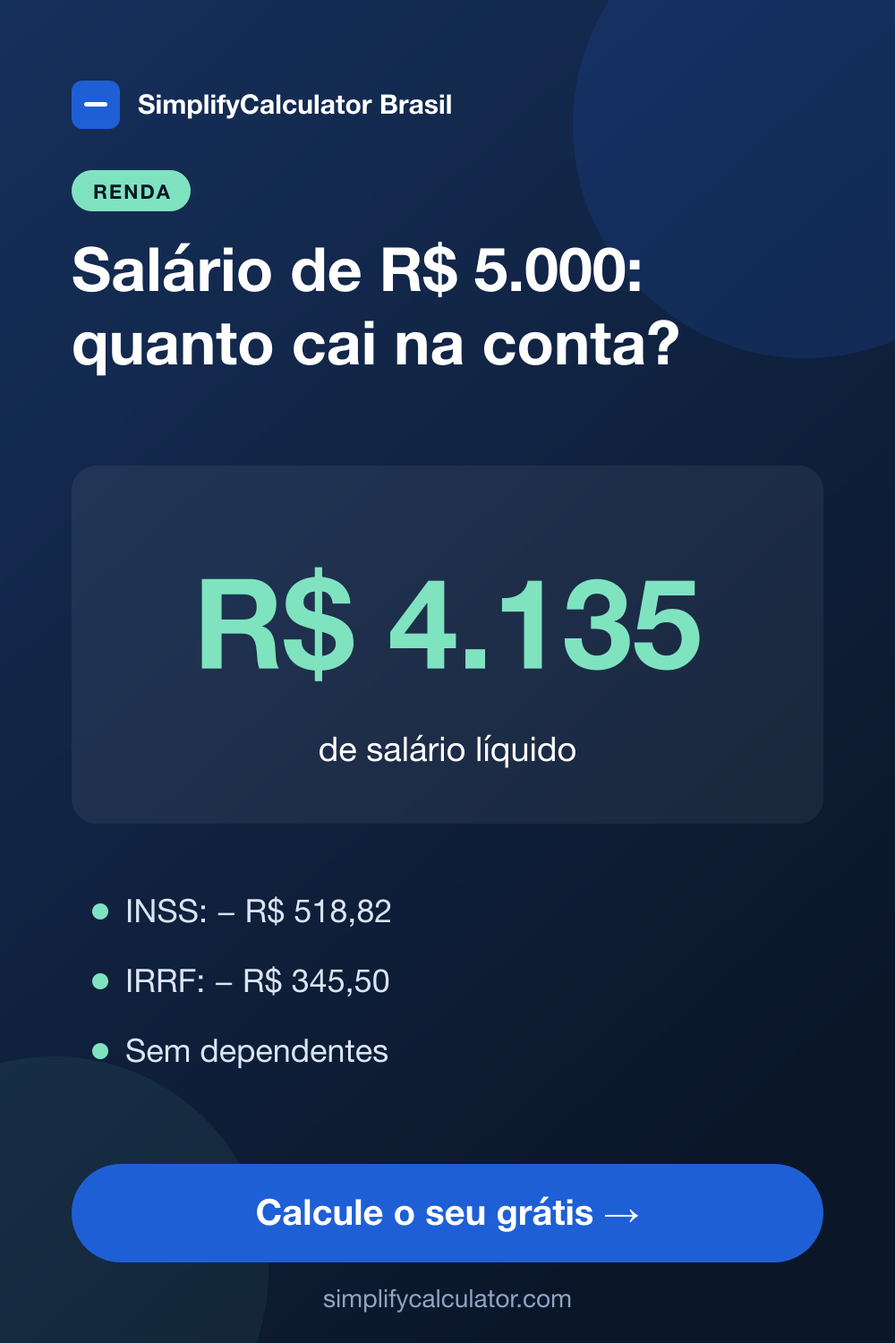
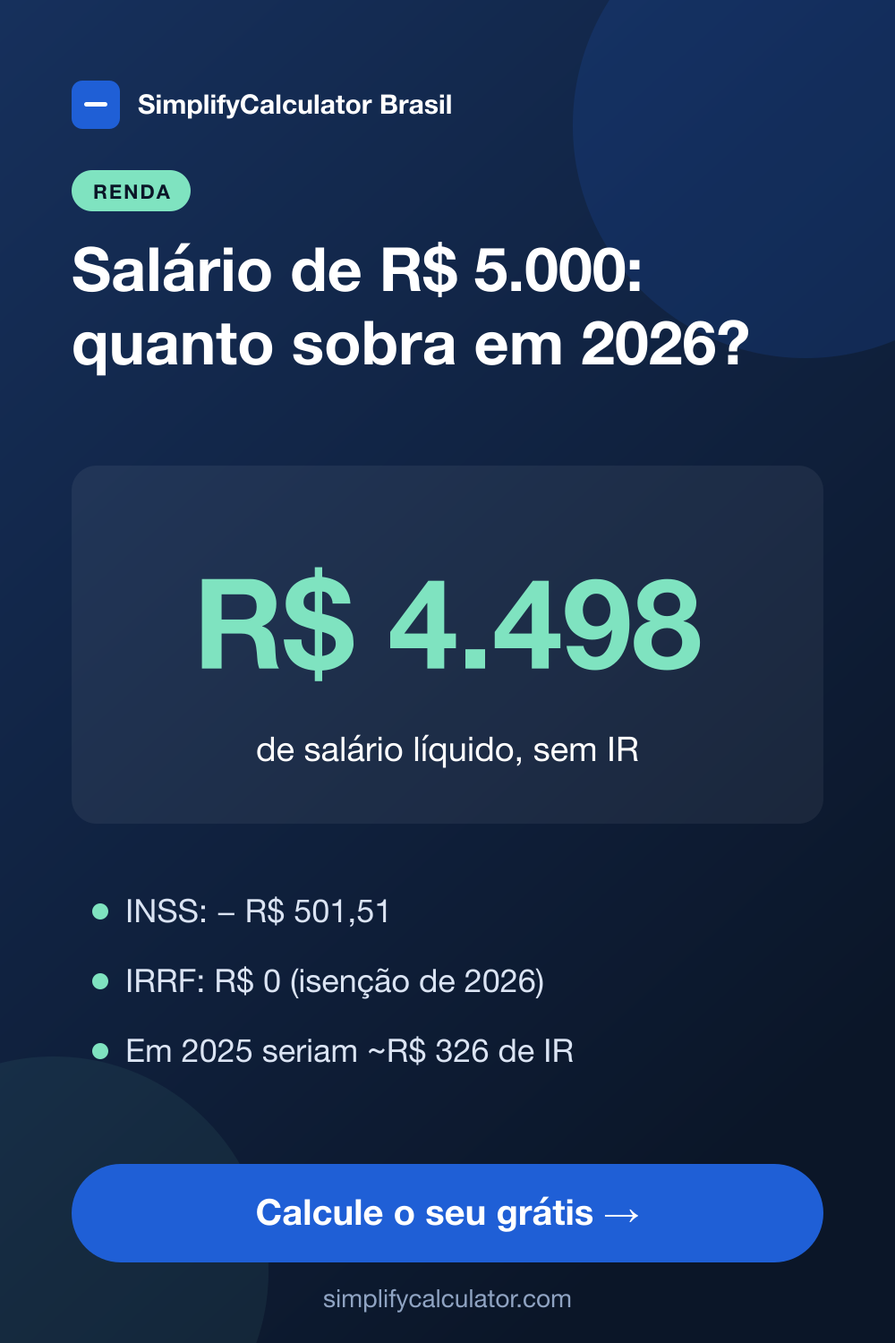
Update PT-BR tax content to 2026 rules and fix post examples
- New src/lib/impostos-br.ts: INSS/IRRF 2026 tables, simplified discount and Lei 15.270 reduction, shared by salary and CLT vs PJ calculators
- Rewrite salary post for 2026 (R$5,000 and R$6,000 examples)
- Fix PGBL x VGBL (monthly contributions), snowball x avalanche simulation, EN minimum-payments example
- Regenerate salary and CLT x PJ pins

diff --git a/src/data/blog-posts-pt-br.ts b/src/data/blog-posts-pt-br.ts
@@ -512,9 +512,9 @@ export const BLOG_POSTS_BR: BlogPostBr[] = [
   },
   {
     slug: 'como-calcular-salario-liquido-clt-inss-irrf',
-    title: 'Como Calcular seu Salário Líquido CLT: A Tabela do INSS e do IRRF Explicada',
+    title: 'Como Calcular seu Salário Líquido CLT em 2026: Tabelas do INSS e do IRRF e a Isenção até R$ 5 Mil',
     metaDescription:
-      'Entenda como o INSS e o IRRF são descontados do salário CLT por faixas progressivas, com exemplo numérico completo do salário bruto ao líquido.',
+      'Entenda como INSS e IRRF são descontados do salário CLT em 2026, incluindo a isenção de IR até R$ 5 mil, com exemplos completos do bruto ao líquido.',
     publishDate: '2026-08-10',
     category: 'Renda',
     image: {
@@ -536,31 +536,40 @@ export const BLOG_POSTS_BR: BlogPostBr[] = [
         heading: 'A tabela do INSS por faixa salarial',
         level: 'h3',
         body: [
-          'A tabela de contribuição usada como referência neste artigo (valores de 2025, reajustados anualmente pelo governo — sempre confira a tabela vigente no ano em que você está calculando) funciona assim: até R$ 1.518,00, a alíquota é de 7,5%; de R$ 1.518,01 até R$ 2.793,88, a alíquota sobre essa fatia é de 9%; de R$ 2.793,89 até R$ 4.190,83, a fatia paga 12%; e de R$ 4.190,84 até o teto do INSS (R$ 8.157,41), a fatia paga 14%. Salários acima do teto contribuem com um valor fixo máximo, já que o INSS não incide sobre o excedente.',
+          'A tabela vigente desde janeiro de 2026 (Portaria Interministerial MPS/MF nº 13, de 09/01/2026) funciona assim: até R$ 1.621,00, a alíquota é de 7,5%; de R$ 1.621,01 até R$ 2.902,84, a fatia paga 9%; de R$ 2.902,85 até R$ 4.354,27, a fatia paga 12%; e de R$ 4.354,28 até o teto de R$ 8.475,55, a fatia paga 14%. Quem ganha acima do teto contribui com o valor máximo, de cerca de R$ 988,09, já que o INSS não incide sobre o excedente. A tabela é reajustada todo início de ano junto com o salário mínimo.',
         ],
       },
       {
         heading: 'Como funciona o desconto do IRRF',
         level: 'h2',
         body: [
-          'O Imposto de Renda Retido na Fonte segue a mesma lógica progressiva, mas incide sobre a base de cálculo depois de descontado o INSS (e, se aplicável, dependentes ou pensão alimentícia) — não sobre o salário bruto. Essa é outra confusão comum: comparar a alíquota do IRRF diretamente com o salário bruto exagera o valor do imposto.',
+          'O Imposto de Renda Retido na Fonte segue a mesma lógica progressiva, mas incide sobre uma base de cálculo, não sobre o salário bruto. Desde 2026 há ainda uma terceira etapa: depois de calcular o imposto pela tabela, aplica-se a redução criada pela Lei 15.270/2025, que zera o IR de quem ganha até R$ 5.000 por mês e reduz parte do imposto de quem ganha até R$ 7.350.',
         ],
       },
       {
-        heading: 'Tabela do IRRF e a dedução simplificada',
+        heading: 'Tabela do IRRF de 2026, desconto simplificado e redução da Lei 15.270',
         level: 'h3',
         body: [
-          'Na tabela vigente em 2025, a base de cálculo até R$ 2.259,20 é isenta de IRRF. De R$ 2.259,21 até R$ 2.826,65, a alíquota é 7,5% com dedução de R$ 169,44. De R$ 2.826,66 até R$ 3.751,05, a alíquota é 15% com dedução de R$ 381,44. De R$ 3.751,06 até R$ 4.664,68, a alíquota é 22,5% com dedução de R$ 662,77. Acima de R$ 4.664,68, a alíquota é 27,5% com dedução de R$ 896,00. A "dedução" de cada faixa existe justamente para simplificar o cálculo progressivo em uma única multiplicação seguida de subtração, sem precisar somar faixa por faixa manualmente.',
-          'Além do desconto do INSS, a folha pode aplicar uma dedução simplificada fixa (que substitui a dedução por dependentes) quando ela for mais vantajosa para o trabalhador — o sistema da folha de pagamento normalmente calcula ambos os cenários e aplica o que resultar em menos imposto.',
+          'Na tabela mensal de 2026, a base de cálculo até R$ 2.428,80 é isenta. De R$ 2.428,81 até R$ 2.826,65, a alíquota é 7,5% com parcela a deduzir de R$ 182,16. De R$ 2.826,66 até R$ 3.751,05, 15% com dedução de R$ 394,16. De R$ 3.751,06 até R$ 4.664,68, 22,5% com dedução de R$ 675,49. Acima de R$ 4.664,68, 27,5% com dedução de R$ 908,73. A "dedução" de cada faixa existe justamente para simplificar o cálculo progressivo em uma única multiplicação seguida de subtração, sem precisar somar faixa por faixa manualmente.',
+          'A base de cálculo é o salário bruto menos o maior destes dois valores: as deduções legais (INSS, R$ 189,59 por dependente e eventual pensão alimentícia) ou o desconto simplificado mensal de R$ 607,20. A folha calcula os dois e usa o que der menos imposto.',
+          'Por último vem a redução da Lei 15.270/2025, calculada sobre o salário bruto, e não sobre a base: até R$ 5.000, ela é de até R$ 312,89, o suficiente para zerar o imposto; entre R$ 5.000,01 e R$ 7.350, a redução é de R$ 978,62 − (0,133145 × salário bruto), diminuindo até sumir; acima de R$ 7.350 não há redução.',
         ],
       },
       {
-        heading: 'Exemplo prático completo: salário bruto de R$ 5.000',
+        heading: 'Exemplo 1: salário bruto de R$ 5.000 (IR zero em 2026)',
         level: 'h2',
         body: [
-          'Primeiro, o INSS. Aplicando as quatro faixas: 7,5% sobre R$ 1.518,00 = R$ 113,85; 9% sobre a fatia de R$ 1.518,01 a R$ 2.793,88 (R$ 1.275,88) = R$ 114,83; 12% sobre a fatia de R$ 2.793,89 a R$ 4.190,83 (R$ 1.396,95) = R$ 167,63; e 14% sobre a fatia de R$ 4.190,84 a R$ 5.000,00 (R$ 809,17) = R$ 113,28. Somando as quatro parcelas, o desconto de INSS totaliza R$ 509,59.',
-          'Em seguida, o IRRF. A base de cálculo é o salário bruto menos o INSS: R$ 5.000,00 − R$ 509,59 = R$ 4.490,41. Esse valor cai na faixa de 22,5% com dedução de R$ 662,77: R$ 4.490,41 × 22,5% = R$ 1.010,34; subtraindo a dedução, o IRRF fica em R$ 347,57.',
-          'O salário líquido final é R$ 5.000,00 − R$ 509,59 (INSS) − R$ 347,57 (IRRF) = R$ 4.142,84. Note que a alíquota "nominal" da faixa do IRRF é 22,5%, mas o imposto efetivamente pago representa apenas 6,95% do salário bruto (R$ 347,57 ÷ R$ 5.000,00) — é o efeito da progressividade e da dedução, que costuma surpreender quem espera um desconto bem maior ao ver "22,5%" na própria faixa salarial.',
+          'Primeiro, o INSS, faixa a faixa: 7,5% sobre R$ 1.621,00 = R$ 121,58; 9% sobre a fatia de R$ 1.281,84 = R$ 115,37; 12% sobre a fatia de R$ 1.451,43 = R$ 174,17; e 14% sobre a fatia de R$ 645,73 (de R$ 4.354,28 a R$ 5.000,00) = R$ 90,40. Somando as fatias sem arredondar cada uma, o total é R$ 501,51.',
+          'Em seguida, a base do IR. As deduções legais somam R$ 501,51, menos que o desconto simplificado de R$ 607,20, então vale o simplificado: R$ 5.000,00 − R$ 607,20 = R$ 4.392,80. Na faixa de 22,5%: R$ 4.392,80 × 22,5% − R$ 675,49 = R$ 312,89 de imposto pela tabela.',
+          'Por fim, a redução: como o salário bruto é de até R$ 5.000, ela é de até R$ 312,89 — exatamente o imposto calculado. O IRRF fica em zero, e o salário líquido é R$ 5.000,00 − R$ 501,51 = R$ 4.498,49. Pelas tabelas de 2025, esse mesmo salário teria cerca de R$ 326 de IR retido todo mês.',
+        ],
+      },
+      {
+        heading: 'Exemplo 2: salário bruto de R$ 6.000 (redução parcial)',
+        level: 'h2',
+        body: [
+          'O INSS soma R$ 641,51 (as três primeiras faixas, R$ 411,12, mais 14% sobre R$ 1.645,73, ou R$ 230,40). Agora as deduções legais (R$ 641,51) são maiores que o desconto simplificado, então a base é R$ 6.000,00 − R$ 641,51 = R$ 5.358,49.',
+          'Pela tabela: R$ 5.358,49 × 27,5% − R$ 908,73 = R$ 564,85. A redução, calculada sobre o bruto, é R$ 978,62 − (0,133145 × R$ 6.000) = R$ 179,75. O IRRF final fica em R$ 385,10, e o salário líquido em R$ 6.000,00 − R$ 641,51 − R$ 385,10 = R$ 4.973,39.',
         ],
       },
       {
@@ -575,6 +584,7 @@ export const BLOG_POSTS_BR: BlogPostBr[] = [
         level: 'h2',
         body: [
           'Como tanto o INSS quanto o IRRF são progressivos, receber um aumento que empurra parte do salário para uma faixa mais alta nunca reduz o valor líquido total recebido — a alíquota maior incide apenas sobre a fatia que ultrapassa o novo limite, nunca sobre o salário inteiro retroativamente. Esse medo ("vou ganhar mais mas vou receber menos por causa do imposto") é comum, mas matematicamente não acontece em nenhum dos dois tributos.',
+          'Um detalhe de 2026: entre R$ 5.000 e R$ 7.350, cada real a mais de salário também reduz o desconto da Lei 15.270. Por isso, nessa faixa, o aumento líquido é menor do que parece: de cada R$ 100 de aumento, sobram cerca de R$ 45 a R$ 50. Ainda assim, ganhar mais sempre resulta em mais dinheiro no bolso.',
         ],
       },
       {
@@ -653,9 +663,9 @@ export const BLOG_POSTS_BR: BlogPostBr[] = [
         heading: 'Exemplo numérico: PGBL x VGBL em 12 anos de aportes mensais',
         level: 'h2',
         body: [
-          'Considere um aporte de R$ 500 por mês (R$ 6.000 por ano) durante 12 anos, com retorno de 8% ao ano, dentro do limite dedutível de 12% da renda em ambos os cenários. Ao final do período, o saldo acumulado seria de aproximadamente R$ 113.850 — dos quais R$ 72.000 vieram das contribuições e cerca de R$ 41.850 são rendimento. Como o prazo passou de 10 anos, a alíquota da tabela regressiva aplicável é de 10%.',
-          'No VGBL, o IR incide só sobre o rendimento: 10% de R$ 41.850 = R$ 4.185, deixando um resgate líquido de aproximadamente R$ 109.665. No PGBL, o IR incide sobre o saldo total resgatado: 10% de R$ 113.850 = R$ 11.385, resultando em R$ 102.465 líquidos — à primeira vista, R$ 7.200 a menos que o VGBL.',
-          'Mas o PGBL também gerou economia de imposto ano a ano: supondo uma alíquota marginal de 27,5% (declaração completa, faixa mais alta), deduzir R$ 6.000 por ano reduziu o IR devido em R$ 1.650 por ano, totalizando R$ 19.800 ao longo dos 12 anos — dinheiro que ficou disponível para o contribuinte gastar, investir ou reaportar a cada ano. Somando essa economia (de forma conservadora, sem reinvestir) ao resgate líquido do PGBL, o total chega a R$ 122.265, cerca de R$ 12.600 acima do VGBL nesse cenário específico.',
+          'Considere um aporte de R$ 500 por mês (R$ 6.000 por ano) durante 12 anos, com retorno de 8% ao ano, dentro do limite dedutível de 12% da renda em ambos os cenários. Ao final do período, o saldo acumulado seria de aproximadamente R$ 117.980 — dos quais R$ 72.000 vieram das contribuições e cerca de R$ 45.980 são rendimento. Para simplificar, vamos aplicar a alíquota de 10% da tabela regressiva a todo o saldo. Na prática, as parcelas aportadas há menos de 10 anos pagariam um pouco mais, mas isso afeta PGBL e VGBL da mesma forma e não muda a conclusão.',
+          'No VGBL, o IR incide só sobre o rendimento: 10% de R$ 45.980 = R$ 4.598, deixando um resgate líquido de aproximadamente R$ 113.382. No PGBL, o IR incide sobre o saldo total resgatado: 10% de R$ 117.980 = R$ 11.798, resultando em R$ 106.182 líquidos — à primeira vista, R$ 7.200 a menos que o VGBL.',
+          'Mas o PGBL também gerou economia de imposto ano a ano: supondo uma alíquota marginal de 27,5% (declaração completa, faixa mais alta), deduzir R$ 6.000 por ano reduziu o IR devido em R$ 1.650 por ano, totalizando R$ 19.800 ao longo dos 12 anos — dinheiro que ficou disponível para o contribuinte gastar, investir ou reaportar a cada ano. Somando essa economia (de forma conservadora, sem reinvestir) ao resgate líquido do PGBL, o total chega a R$ 125.982, cerca de R$ 12.600 acima do VGBL nesse cenário específico.',
           'A conclusão prática: o PGBL só supera o VGBL quando o contribuinte realmente aproveita a dedução (declaração completa, base de INSS suficiente, dentro do limite de 12%) e está em uma alíquota marginal alta o bastante para a economia anual compensar a tributação maior no resgate. Fora dessas condições — declaração simplificada, contribuições acima do teto dedutível, ou alíquota marginal baixa — o VGBL tende a deixar mais dinheiro no bolso no final.',
         ],
       },
@@ -733,21 +743,21 @@ export const BLOG_POSTS_BR: BlogPostBr[] = [
         heading: 'O que acontece na bola de neve',
         level: 'h3',
         body: [
-          'Seguindo a ordem do menor saldo, a bola de neve ataca primeiro o financiamento do carro (quitado no mês 3), depois o empréstimo pessoal (quitado no mês 9) e só então o cartão rotativo, que fica recebendo apenas o pagamento mínimo durante os primeiros 8 meses — tempo suficiente para acumular juros consideráveis a 14% ao mês sobre um saldo de R$ 9.000. A dívida inteira é quitada no mês 14, com um total de R$ 14.515,65 pagos em juros ao longo de todo o processo.',
+          'Seguindo a ordem do menor saldo, a bola de neve ataca primeiro o financiamento do carro (quitado no mês 3), depois o empréstimo pessoal (quitado no mês 8) e só então o cartão rotativo, que recebe apenas o pagamento mínimo durante os primeiros 8 meses — tempo suficiente para acumular juros consideráveis a 14% ao mês sobre um saldo de R$ 9.000. A última dívida é quitada no mês 12, com um total de R$ 12.793,31 pagos em juros ao longo de todo o processo.',
         ],
       },
       {
         heading: 'O que acontece na avalanche',
         level: 'h3',
         body: [
-          'Seguindo a ordem da maior taxa, a avalanche ataca o cartão rotativo desde o primeiro mês, quitando-o no mês 8 — quase a metade do tempo que ele levaria na bola de neve — e deixando o empréstimo pessoal e o financiamento do carro (as dívidas mais baratas) para depois. O resultado final também leva 14 meses no total, mas o total pago em juros cai para R$ 8.179,28 — uma economia de R$ 6.336,37 só pela ordem em que as dívidas foram atacadas, sem nenhuma mudança no valor mensal disponível.',
+          'Seguindo a ordem da maior taxa, a avalanche ataca o cartão rotativo desde o primeiro mês, quitando-o no mês 8, quatro meses antes do que na bola de neve, e deixando o empréstimo pessoal e o financiamento do carro (as dívidas mais baratas) para depois. Tudo fica quitado no mês 10, dois meses antes, e o total pago em juros cai para R$ 7.877,99: uma economia de R$ 4.915,32 só pela ordem em que as dívidas foram atacadas, sem nenhuma mudança no valor mensal disponível.',
         ],
       },
       {
         heading: 'Por que a diferença é tão grande neste exemplo',
         level: 'h2',
         body: [
-          'A diferença de mais de R$ 6.300 vem inteiramente do tempo que o rotativo do cartão — de longe a dívida mais cara do exemplo — passa acumulando juros de 14% ao mês sobre um saldo alto. Quanto maior a taxa de uma dívida e quanto mais tempo ela permanece intocada recebendo só o pagamento mínimo, maior o custo de deixá-la por último. Esse efeito se intensifica ainda mais quando a dívida mais cara também tem o maior saldo, como costuma acontecer no rotativo do cartão e no cheque especial no Brasil.',
+          'A diferença de quase R$ 4.900 vem inteiramente do tempo que o rotativo do cartão — de longe a dívida mais cara do exemplo — passa acumulando juros de 14% ao mês sobre um saldo alto. Quanto maior a taxa de uma dívida e quanto mais tempo ela permanece intocada recebendo só o pagamento mínimo, maior o custo de deixá-la por último. Esse efeito se intensifica ainda mais quando a dívida mais cara também tem o maior saldo, como costuma acontecer no rotativo do cartão e no cheque especial no Brasil.',
         ],
       },
       {
@@ -1185,7 +1195,7 @@ export const BLOG_POSTS_BR: BlogPostBr[] = [
         heading: 'Exemplo 2: salário de R$ 4.500 e o efeito da isenção',
         level: 'h3',
         body: [
-          'O INSS sobre R$ 4.500 soma R$ 431,52 (as três primeiras faixas mais 14% sobre R$ 145,73). A base do IR fica em R$ 4.068,48, o que pela tabela daria R$ 239,92 de imposto. Como o rendimento tributável está abaixo de R$ 5 mil, o redutor zera esse valor. Resultado: primeira parcela de R$ 2.250,00 e segunda de R$ 1.818,48, um 13º líquido total de R$ 4.068,48. Em 2025, esse mesmo trabalhador teria perdido algo próximo de R$ 240 para o Imposto de Renda.',
+          'O INSS sobre R$ 4.500 soma R$ 431,51 (as três primeiras faixas mais 14% sobre R$ 145,73). A base do IR fica em R$ 4.068,49, o que pela tabela daria R$ 239,92 de imposto. Como o rendimento tributável está abaixo de R$ 5 mil, o redutor zera esse valor. Resultado: primeira parcela de R$ 2.250,00 e segunda de R$ 1.818,49, um 13º líquido total de R$ 4.068,49. Em 2025, esse mesmo trabalhador teria perdido cerca de R$ 250 para o Imposto de Renda.',
         ],
       },
       {

diff --git a/src/data/calculators-pt-br.ts b/src/data/calculators-pt-br.ts
@@ -114,15 +114,16 @@ export const CALCULATORS_BR: CalculatorBr[] = [
     title: 'Calculadora de Salário Líquido CLT',
     shortTitle: 'Salário Líquido CLT',
     category: 'Renda',
-    metaDescription: 'Calcule seu salário líquido CLT com os descontos de INSS e IRRF de 2024, considerando dependentes.',
+    metaDescription: 'Calcule seu salário líquido CLT em 2026 com as tabelas atuais de INSS e IRRF, incluindo a isenção de IR para quem ganha até R$ 5.000 (Lei 15.270).',
     intro: 'Descubra quanto do seu salário bruto CLT realmente cai na sua conta depois dos descontos obrigatórios de INSS (previdência) e IRRF (imposto de renda), considerando dependentes.',
-    formulaExplanation: 'O INSS é calculado por faixas progressivas sobre o salário bruto (7,5% até R$ 1.412,00; 9% de R$ 1.412,01 a R$ 2.666,68; 12% de R$ 2.666,69 a R$ 4.000,03; 14% de R$ 4.000,04 até o teto de R$ 7.786,02, com desconto máximo de R$ 908,85).\n\nO IRRF é calculado sobre a base de cálculo (salário bruto menos INSS menos R$ 189,59 por dependente), aplicando a alíquota da faixa correspondente e subtraindo a parcela a deduzir da tabela progressiva da Receita Federal. Salário líquido = Bruto - INSS - IRRF.',
-    formulaSource: { label: 'Receita Federal: Tabela do Imposto de Renda', url: 'https://www.gov.br/receitafederal/pt-br/assuntos/meu-imposto-de-renda/tabelas' },
-    example: 'Exemplo: um salário bruto de R$ 4.500,00 sem dependentes gera um desconto de INSS de aproximadamente R$ 448,82 e um IRRF de cerca de R$ 248,75, resultando em um salário líquido de aproximadamente R$ 3.802,44.',
+    formulaExplanation: 'O INSS é calculado por faixas progressivas sobre o salário bruto, com a tabela de 2026: 7,5% até R$ 1.621,00; 9% de R$ 1.621,01 a R$ 2.902,84; 12% de R$ 2.902,85 a R$ 4.354,27; e 14% de R$ 4.354,28 até o teto de R$ 8.475,55 — o desconto máximo fica em cerca de R$ 988,09.\n\nO IRRF parte de uma base de cálculo: o salário bruto menos o maior valor entre as deduções legais (INSS + R$ 189,59 por dependente) e o desconto simplificado de R$ 607,20. Sobre essa base aplica-se a tabela mensal de 2026 (isento até R$ 2.428,80; 7,5% até R$ 2.826,65; 15% até R$ 3.751,05; 22,5% até R$ 4.664,68; 27,5% acima disso). Por fim, entra a redução da Lei 15.270/2025: quem tem salário bruto de até R$ 5.000 fica com IR zero, e entre R$ 5.000,01 e R$ 7.350 a redução é de R$ 978,62 − 0,133145 × salário bruto. Salário líquido = Bruto − INSS − IRRF.',
+    formulaSource: { label: 'Receita Federal: Tributação de 2026', url: 'https://www.gov.br/receitafederal/pt-br/assuntos/meu-imposto-de-renda/tabelas/2026' },
+    example: 'Exemplo: um salário bruto de R$ 4.500,00 sem dependentes tem R$ 431,51 de INSS. Pela tabela, o IR seria de R$ 200,39, mas como o salário é de até R$ 5.000, a redução da Lei 15.270 zera o imposto: o líquido fica em R$ 4.068,49. Já um salário de R$ 6.000 tem R$ 641,51 de INSS e R$ 385,10 de IRRF (R$ 564,85 pela tabela menos R$ 179,75 de redução), com líquido de R$ 4.973,39.',
     faqs: [
       { q: 'Essa calculadora inclui vale-transporte e vale-refeição?', a: 'Não. Esta calculadora considera apenas os descontos obrigatórios de INSS e IRRF. Vale-transporte (descontado em até 6% do salário) e outros descontos definidos em convenção coletiva ou contrato variam por empresa e não estão incluídos.' },
       { q: 'O que são "dependentes" para fins de IRRF?', a: 'Filhos até 21 anos (ou até 24 se cursando ensino superior), cônjuge, e outras pessoas que se enquadrem nas regras da Receita Federal podem ser declarados como dependentes, reduzindo a base de cálculo do IRRF em R$ 189,59 por dependente.' },
-      { q: 'Por que o INSS tem um teto de desconto?', a: 'O INSS é calculado por faixas progressivas, mas existe um teto de contribuição (R$ 908,85 em 2024) porque também existe um teto para o benefício de aposentadoria. Quem ganha acima do teto salarial do INSS não paga mais previdência sobre o excedente, e também não recebe um benefício maior por isso.' },
+      { q: 'Por que o INSS tem um teto de desconto?', a: 'O INSS é calculado por faixas progressivas, mas existe um teto de contribuição (salário de R$ 8.475,55 em 2026, com desconto máximo de cerca de R$ 988,09) porque também existe um teto para o benefício de aposentadoria. Quem ganha acima do teto não paga previdência sobre o excedente, e também não recebe um benefício maior por isso.' },
+      { q: 'Quem ganha até R$ 5.000 paga Imposto de Renda em 2026?', a: 'Não no desconto mensal. A Lei 15.270/2025 criou, a partir de janeiro de 2026, uma redução que zera o IRRF para quem tem rendimento tributável mensal de até R$ 5.000, e reduz parcialmente o imposto entre R$ 5.000,01 e R$ 7.350. O INSS continua sendo descontado normalmente.' },
     ],
     tips: [
       'Revise anualmente se vale a pena declarar dependentes no imposto de renda retido na fonte — em alguns casos, principalmente com renda mais baixa, pode ser mais vantajoso não declarar e ajustar na declaração anual.',
@@ -140,7 +141,7 @@ export const CALCULATORS_BR: CalculatorBr[] = [
     intro: 'Decidir entre um cargo CLT e uma proposta PJ exige comparar mais do que o valor bruto: benefícios como 13º salário, férias e FGTS têm valor real, enquanto o regime PJ tem custos como Simples Nacional e contador. Esta calculadora ajuda a comparar as duas opções em termos concretos.',
     formulaExplanation: 'Para a CLT, calculamos o salário líquido mensal (após INSS e IRRF) e somamos o valor mensal equivalente dos benefícios: 13º salário (1/12 do bruto por mês) + 1/3 de férias sobre 1/12 do bruto + FGTS (8% do bruto, embora não seja de uso imediato). Isso dá o "valor mensal total CLT".\n\nPara o PJ, partimos do faturamento mensal informado e subtraímos a alíquota efetiva do Simples Nacional, o custo do contador e uma estimativa de contribuição ao INSS como contribuinte individual, chegando ao "líquido PJ mensal".',
     formulaSource: { label: 'Portal do Simples Nacional', url: 'https://www8.receita.fazenda.gov.br/simplesnacional/' },
-    example: 'Exemplo: um salário CLT bruto de R$ 6.000 gera um líquido de ~R$ 4.768 (após INSS e IRRF), mais ~R$ 1.147 por mês em benefícios equivalentes (13º, 1/3 de férias e FGTS) = ~R$ 5.915 de valor mensal total. Para chegar ao mesmo valor como PJ, com Simples Nacional de 6%, contador de R$ 450 e INSS de R$ 220, seria preciso faturar cerca de R$ 7.000 por mês — e isso sem contar estabilidade, férias remuneradas e seguro-desemprego.',
+    example: 'Exemplo: um salário CLT bruto de R$ 6.000 gera um líquido de ~R$ 4.973 (após INSS e IRRF de 2026), mais ~R$ 1.147 por mês em benefícios equivalentes (13º, 1/3 de férias e FGTS) = ~R$ 6.120 de valor mensal total. Para chegar ao mesmo valor como PJ, com Simples Nacional de 6%, contador de R$ 450 e INSS de R$ 220, seria preciso faturar cerca de R$ 7.200 por mês — e isso sem contar estabilidade, férias remuneradas e seguro-desemprego.',
     faqs: [
       { q: 'O PJ realmente compensa financeiramente?', a: 'Só compensa se o faturamento PJ for significativamente maior que o salário CLT equivalente — normalmente 30-50% a mais — porque o PJ perde os benefícios trabalhistas (FGTS, férias remuneradas, 13º, estabilidade, seguro-desemprego) e assume custos extras (contador, Simples Nacional, sem verbas rescisórias).' },
       { q: 'Essa calculadora considera a Reforma Trabalhista ou pejotização?', a: 'Não entra em questões jurídicas de vínculo empregatício ou risco de reclassificação trabalhista (pejotização) — isso depende do caso concreto e vale consultar um advogado trabalhista. A calculadora foca apenas na comparação financeira entre os dois regimes.' },
@@ -208,7 +209,7 @@ export const CALCULATORS_BR: CalculatorBr[] = [
     formulaSource: { label: 'INSS: Regras de aposentadoria', url: 'https://www.gov.br/inss/pt-br' },
     example: 'Exemplo: começando aos 30 anos com R$ 20.000 acumulados, aportando R$ 600/mês a um retorno de 8% ao ano até os 65 anos, o saldo projetado é de aproximadamente R$ 1.702.000, gerando uma renda mensal estimada de cerca de R$ 6.800 (em valores nominais, sem descontar a inflação do período).',
     faqs: [
-      { q: 'Isso substitui o INSS?', a: 'Não. Esta calculadora projeta uma reserva própria (investimentos ou previdência privada) que complementa a aposentadoria do INSS. O teto do benefício do INSS em 2024 gira em torno de R$ 7.786,02, frequentemente insuficiente para manter o padrão de vida de quem ganha mais que isso.' },
+      { q: 'Isso substitui o INSS?', a: 'Não. Esta calculadora projeta uma reserva própria (investimentos ou previdência privada) que complementa a aposentadoria do INSS. O teto do benefício do INSS em 2026 é de R$ 8.475,55, frequentemente insuficiente para manter o padrão de vida de quem ganha mais que isso.' },
       { q: 'PGBL ou VGBL, qual escolher?', a: 'PGBL permite deduzir as contribuições do Imposto de Renda (até 12% da renda bruta anual) para quem declara pelo modelo completo, mas tributa o resgate total. VGBL não permite dedução, mas tributa apenas o rendimento no resgate — geralmente melhor para quem declara pelo modelo simplificado ou é isento.' },
       { q: 'Qual a diferença entre tabela progressiva e regressiva na previdência privada?', a: 'Na tabela regressiva, a alíquota do Imposto de Renda cai quanto mais tempo o dinheiro fica investido (de 35% até 10% após 10 anos) — vantajosa para quem pretende resgatar só no longo prazo. Na progressiva, a alíquota segue a mesma tabela do salário, sendo mais indicada para resgates de curto prazo ou valores menores.' },
     ],

diff --git a/src/lib/impostos-br.ts b/src/lib/impostos-br.ts
@@ -1,0 +1,83 @@
+// ---------------------------------------------------------------------------
+// Regras de INSS e IRRF (empregado CLT) vigentes em 2026. Fonte única para as
+// calculadoras PT-BR — atualize aqui quando as tabelas mudarem.
+//
+// INSS: Portaria Interministerial MPS/MF nº 13, de 09/01/2026
+//   https://www.gov.br/inss/pt-br/direitos-e-deveres/inscricao-e-contribuicao/tabela-de-contribuicao-mensal
+// IRRF: tabela mensal 2026 + redução da Lei nº 15.270/2025
+//   https://www.gov.br/receitafederal/pt-br/assuntos/meu-imposto-de-renda/tabelas/2026
+//   https://www.gov.br/receitafederal/pt-br/assuntos/meu-imposto-de-renda/tabelas/exemplos-de-aplicacao-da-lei-15-270-2025
+// ---------------------------------------------------------------------------
+
+export const ANO_TABELAS = 2026;
+export const SALARIO_MINIMO = 1621.0;
+
+/** Faixas progressivas do INSS (teto de cada faixa, alíquota). */
+export const INSS_FAIXAS: [number, number][] = [
+  [1621.0, 0.075],
+  [2902.84, 0.09],
+  [4354.27, 0.12],
+  [8475.55, 0.14],
+];
+export const INSS_TETO = 8475.55;
+
+/** Tabela progressiva mensal do IRRF (limite superior, alíquota, parcela a deduzir). */
+export const IRRF_FAIXAS: [number, number, number][] = [
+  [2428.8, 0, 0],
+  [2826.65, 0.075, 182.16],
+  [3751.05, 0.15, 394.16],
+  [4664.68, 0.225, 675.49],
+  [Infinity, 0.275, 908.73],
+];
+export const DEDUCAO_DEPENDENTE = 189.59;
+export const DESCONTO_SIMPLIFICADO = 607.2;
+
+/** INSS do empregado, calculado faixa a faixa e limitado ao teto. */
+export function calcularInss(bruto: number): number {
+  let total = 0;
+  let anterior = 0;
+  for (const [teto, aliquota] of INSS_FAIXAS) {
+    if (bruto <= anterior) break;
+    total += (Math.min(bruto, teto) - anterior) * aliquota;
+    anterior = teto;
+  }
+  return Math.round(total * 100) / 100;
+}
+
+/** Imposto pela tabela progressiva, antes da redução da Lei 15.270. */
+export function impostoTabela(base: number): number {
+  for (const [limite, aliquota, deducao] of IRRF_FAIXAS) {
+    if (base <= limite) return Math.max(0, base * aliquota - deducao);
+  }
+  return 0;
+}
+
+/** Redução da Lei 15.270/2025, calculada sobre o rendimento bruto (não sobre a base). */
+export function reducaoLei15270(rendimentoBruto: number, impostoDevido: number): number {
+  let reducao = 0;
+  if (rendimentoBruto <= 5000) reducao = 312.89;
+  else if (rendimentoBruto <= 7350) reducao = Math.max(0, 978.62 - 0.133145 * rendimentoBruto);
+  return Math.min(reducao, impostoDevido);
+}
+
+export interface ResultadoIrrf {
+  base: number;
+  usouDescontoSimplificado: boolean;
+  impostoTabela: number;
+  reducao: number;
+  irrf: number;
+}
+
+/**
+ * IRRF mensal: base = bruto − maior entre (INSS + dependentes + outras deduções legais)
+ * e o desconto simplificado; aplica a tabela e depois a redução da Lei 15.270.
+ */
+export function calcularIrrf(bruto: number, inss: number, dependentes = 0, outrasDeducoes = 0): ResultadoIrrf {
+  const deducoesLegais = inss + dependentes * DEDUCAO_DEPENDENTE + outrasDeducoes;
+  const usouDescontoSimplificado = DESCONTO_SIMPLIFICADO > deducoesLegais;
+  const base = Math.max(0, bruto - Math.max(deducoesLegais, DESCONTO_SIMPLIFICADO));
+  const imposto = impostoTabela(base);
+  const reducao = reducaoLei15270(bruto, imposto);
+  const irrf = Math.round((imposto - reducao) * 100) / 100;
+  return { base, usouDescontoSimplificado, impostoTabela: imposto, reducao, irrf: Math.max(0, irrf) };
+}

diff --git a/src/data/blog-posts.ts b/src/data/blog-posts.ts
@@ -113,7 +113,7 @@ export const BLOG_POSTS: BlogPost[] = [
         heading: 'A real example',
         level: 'h2',
         body: [
-          "Take a $5,000 balance at a fairly typical 22% APR, paying only the minimum (assume 2% of balance or $35, whichever is greater). It takes roughly 20+ years to pay off, and the total interest paid over that time can exceed the original balance — meaning you effectively pay for the same purchase twice. Our Credit Card Payoff Calculator lets you plug in your own balance, rate, and a fixed payment amount to see this play out with your real numbers instead of a generic example.",
+          "Take a $5,000 balance at a fairly typical 22% APR, paying only the minimum (assume 2% of balance or $35, whichever is greater). Because the minimum shrinks as the balance shrinks, it takes about 767 months (more than 60 years) to pay off, and the total interest comes to roughly $38,800, almost eight times the original balance. That is the worst case: issuers that set the minimum at 1% of the balance plus that month's interest would get you out in about 16 years (197 months), still with roughly $7,700 in interest. Our Credit Card Payoff Calculator lets you plug in your own balance, rate, and a fixed payment amount to see this play out with your real numbers instead of a generic example.",
         ],
       },
       {
